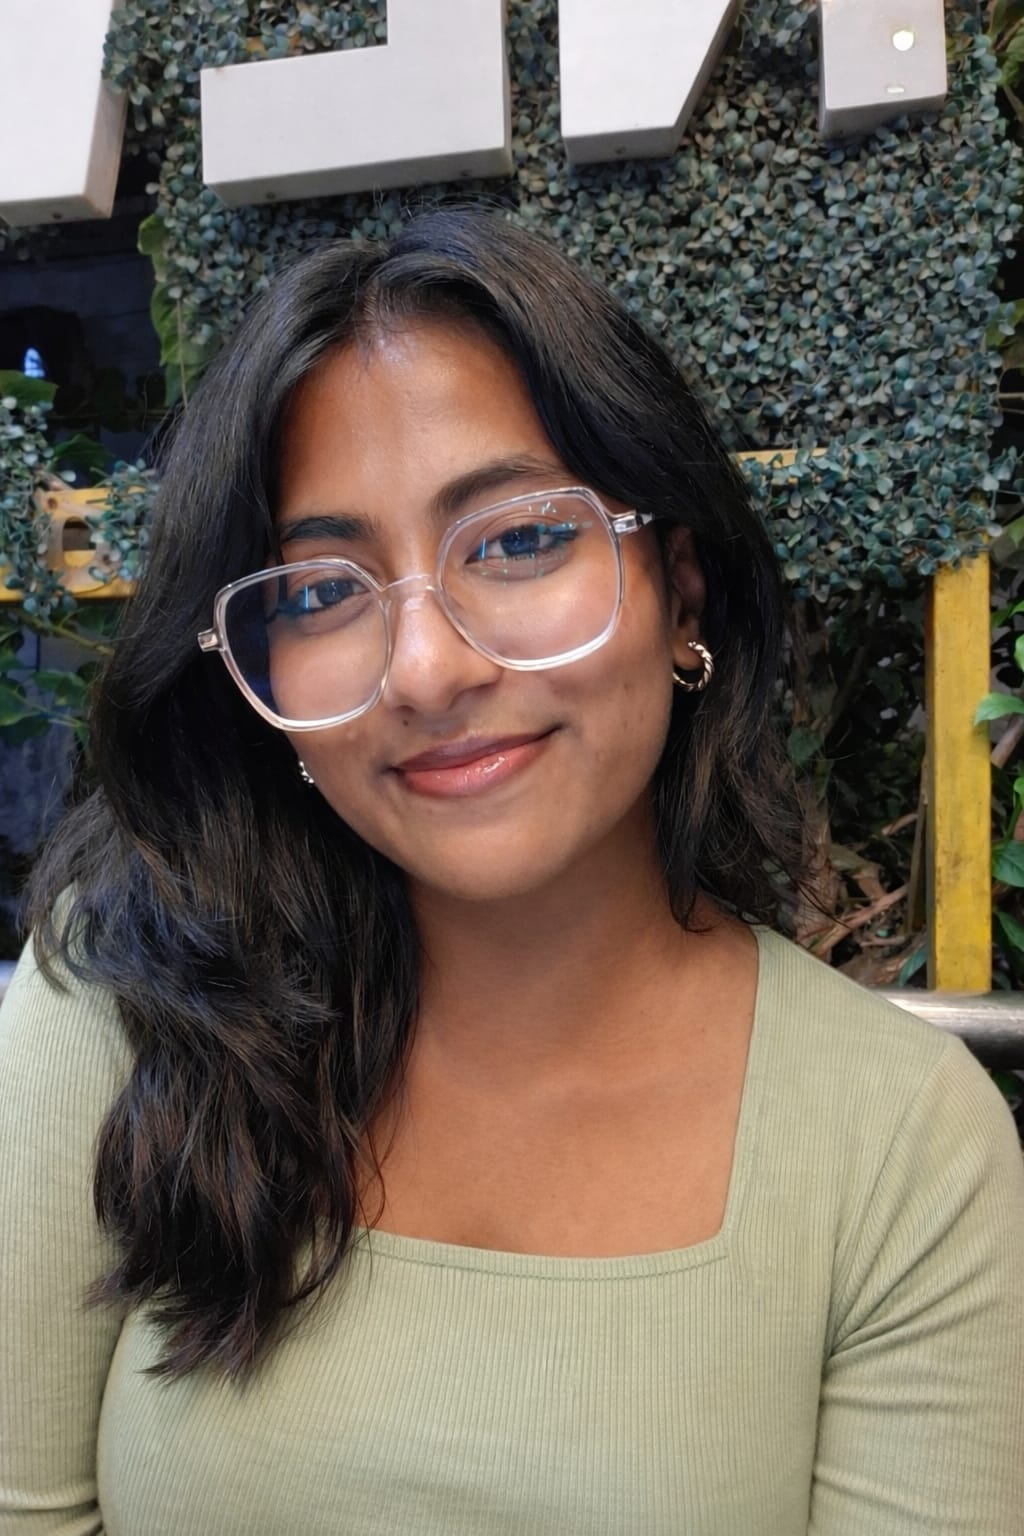
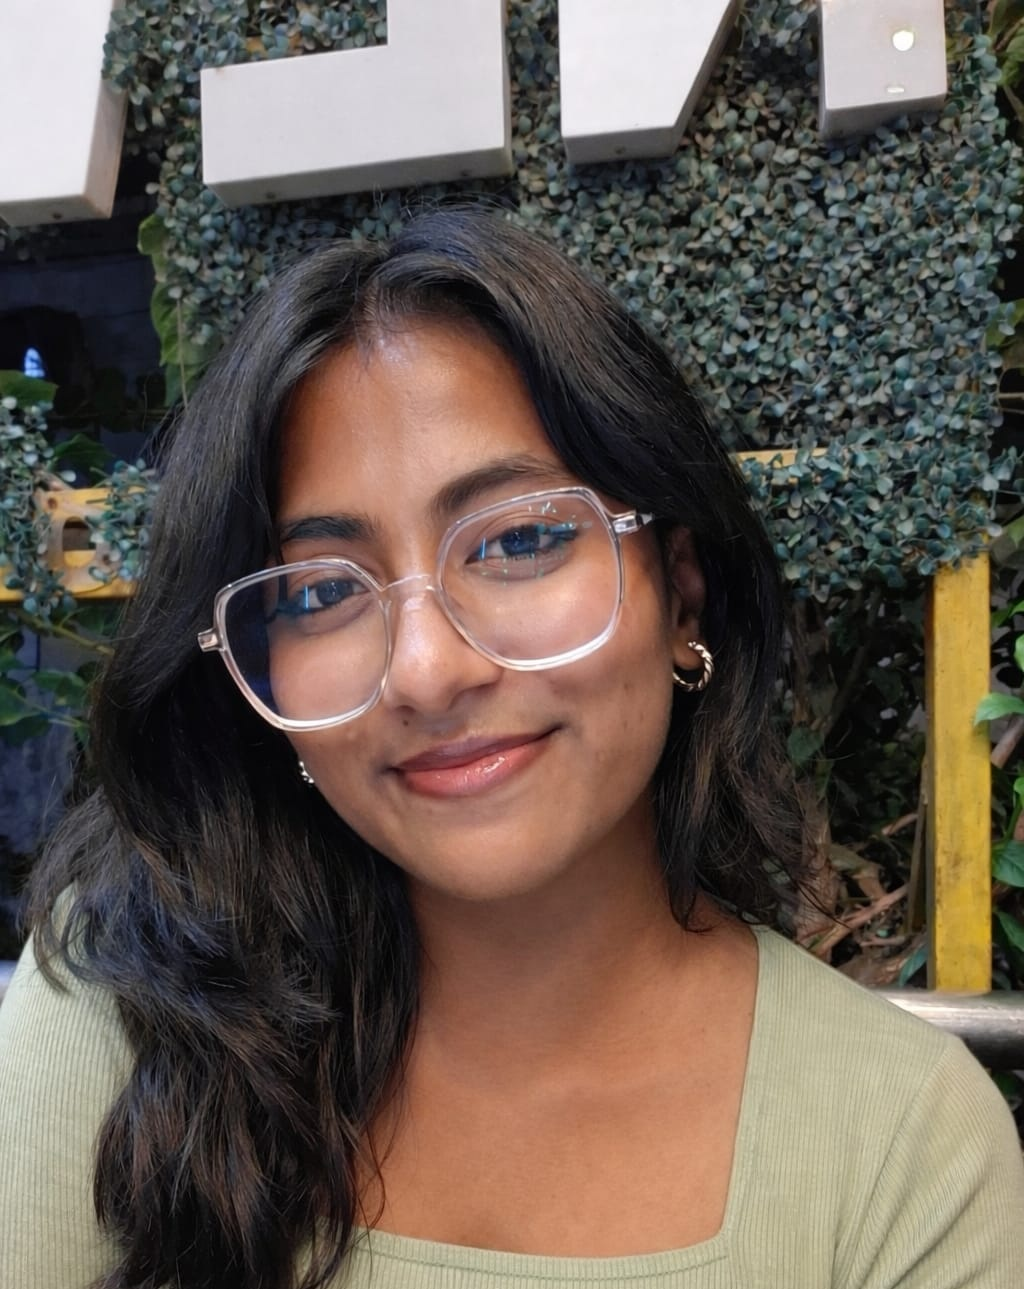
chore: normalized and auto-cropped member photos to uniform 1:1 aspect ratio focusing on faces

diff --git a/src/components/TeamSection.tsx b/src/components/TeamSection.tsx
@@ -277,7 +277,7 @@ const MemberModal = ({ member, onClose }: { member: typeof MEMBERS[0]; onClose: 
                 <img
                   src={member.image}
                   alt={member.name}
-                  className="w-full h-full object-cover object-top"
+                  className="w-full h-full object-cover"
                 />
               </div>
               <div className="absolute -top-1 -left-1 w-3 h-3 border-t-2 border-l-2 border-primary" />
@@ -434,11 +434,11 @@ const MemberCard = ({ member, index }: { member: typeof MEMBERS[0]; index: numbe
           <div className="card-scan-line opacity-0 group-hover:opacity-100 transition-opacity duration-500" />
 
           {/* Photo area */}
-          <div className="relative shrink-0 h-72 sm:h-56 lg:h-52 overflow-hidden">
+          <div className="relative shrink-0 h-52 overflow-hidden">
             <img
               src={member.image}
               alt={member.name}
-              className="w-full h-full object-cover object-top grayscale-[40%] group-hover:grayscale-0 transition-all duration-700 scale-105 group-hover:scale-100"
+              className="w-full h-full object-cover grayscale-[40%] group-hover:grayscale-0 transition-all duration-700 scale-105 group-hover:scale-100"
             />
             <div className="absolute inset-0 bg-gradient-to-t from-surface-dim via-surface-dim/20 to-transparent" />
 
